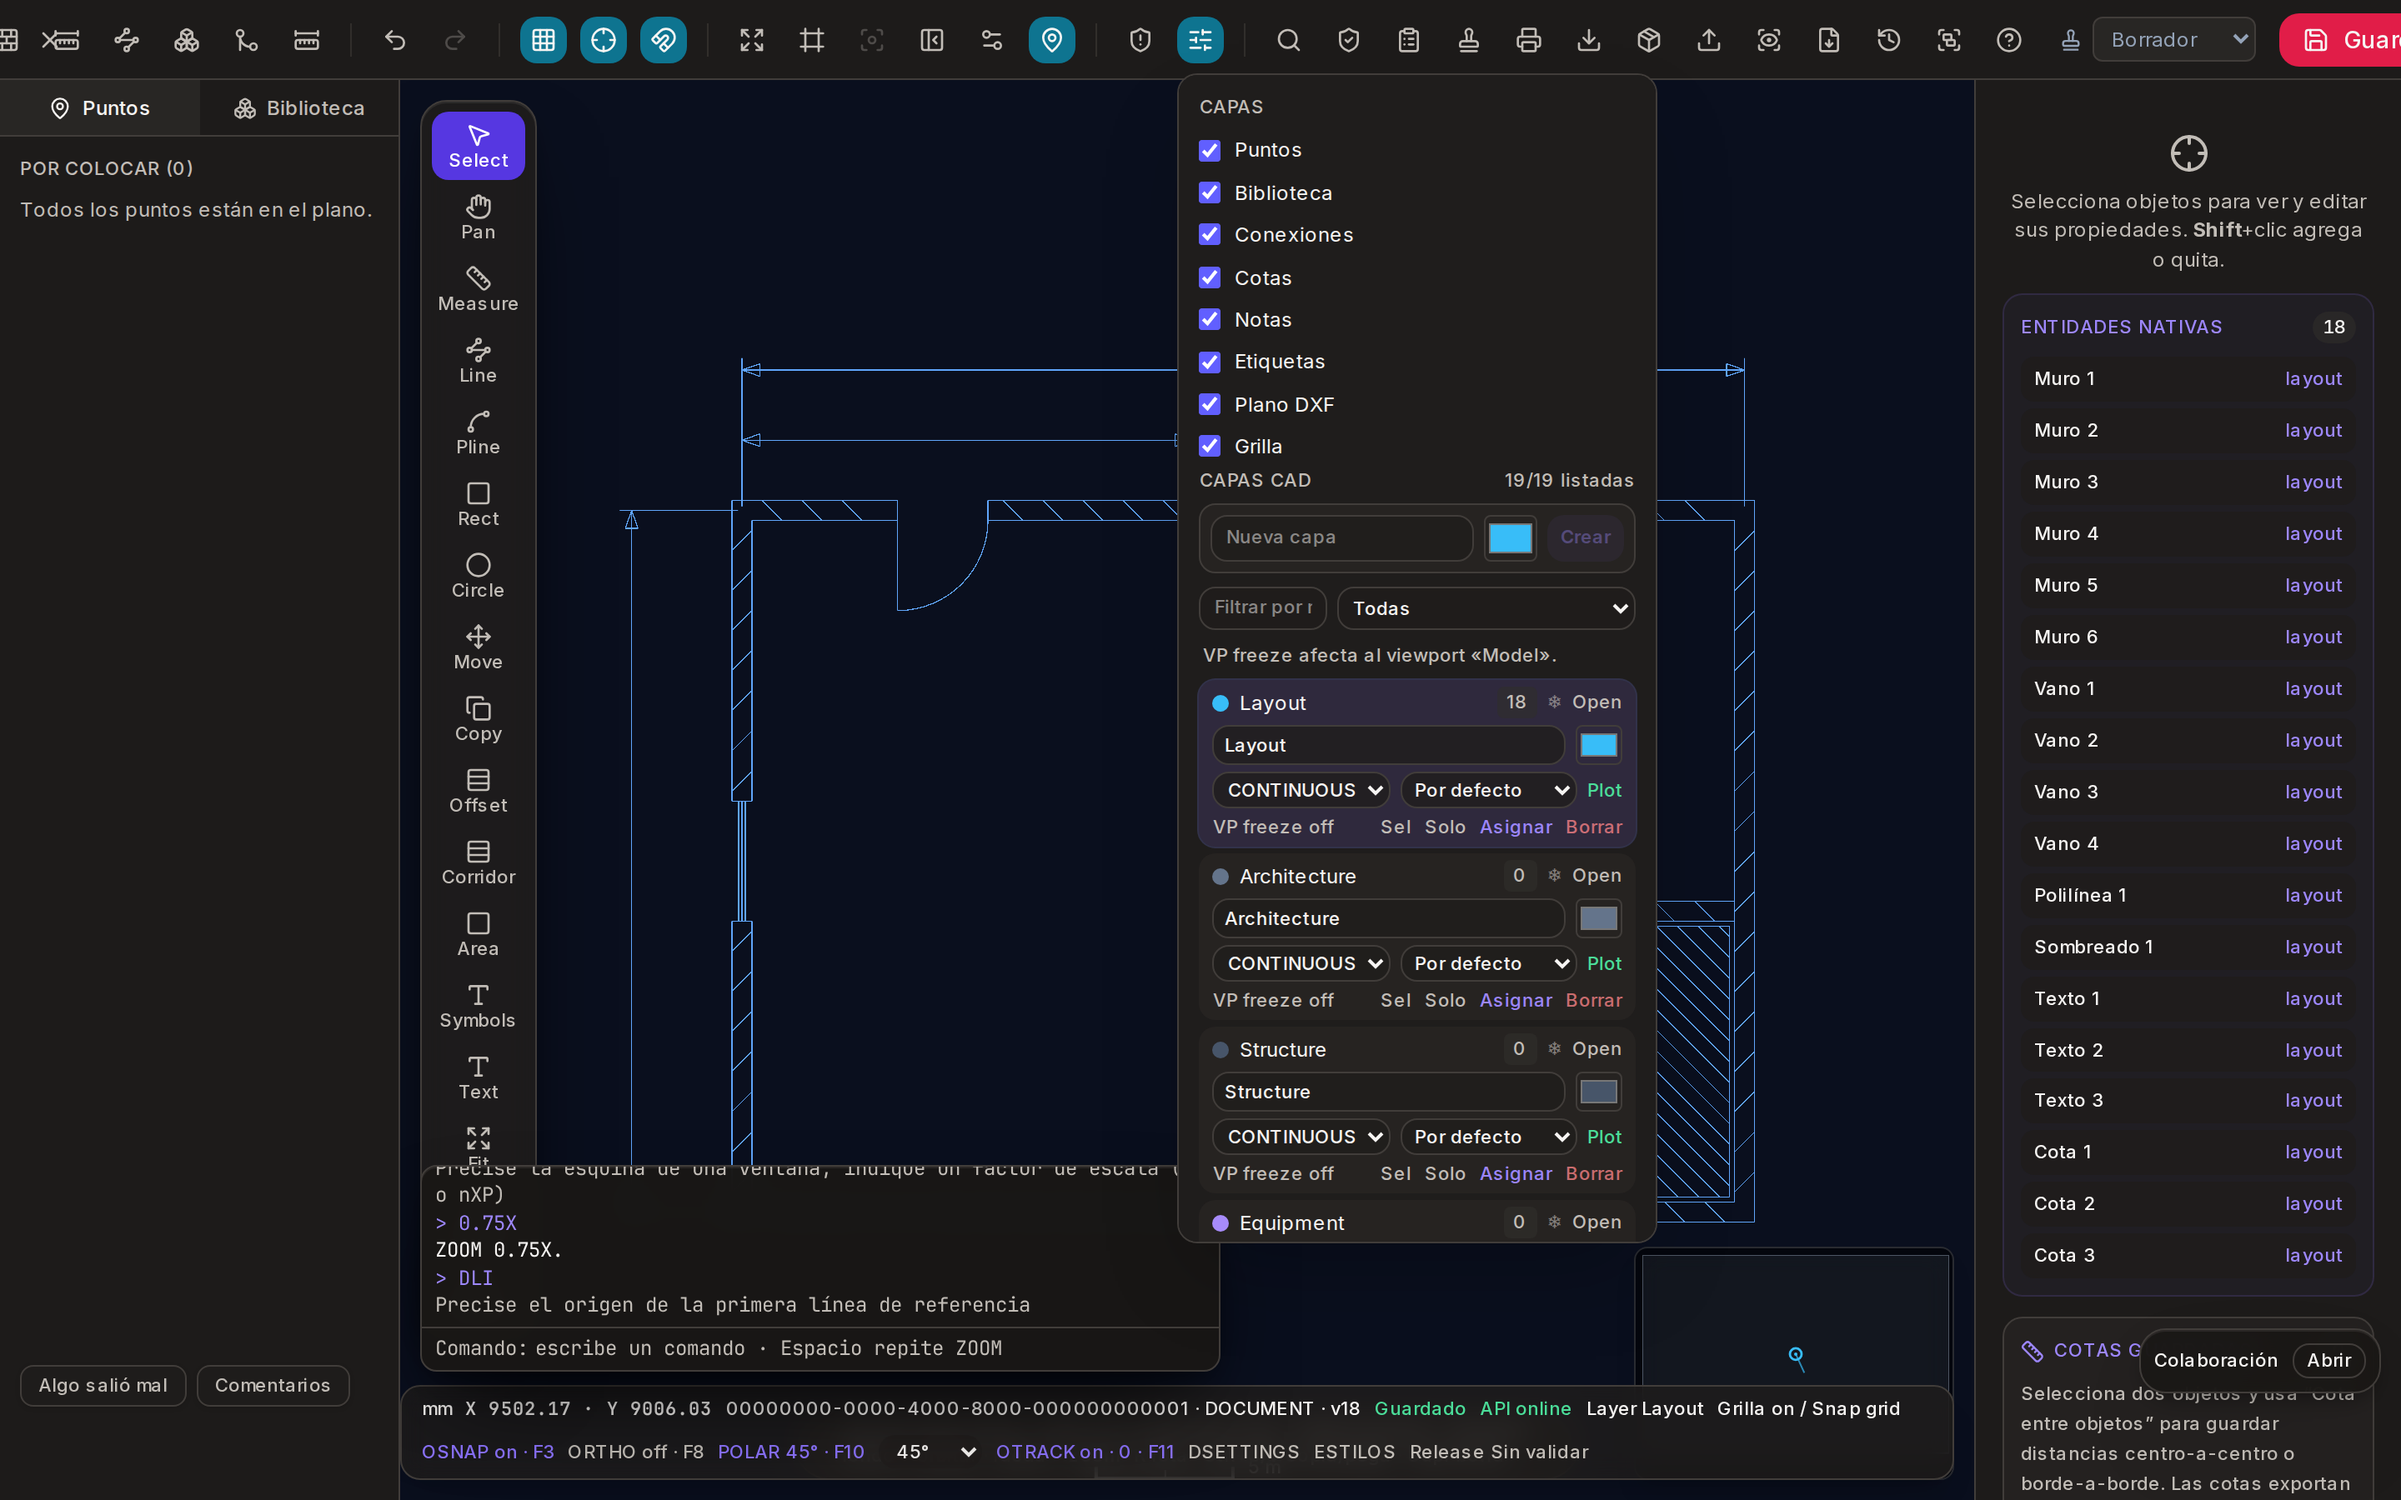
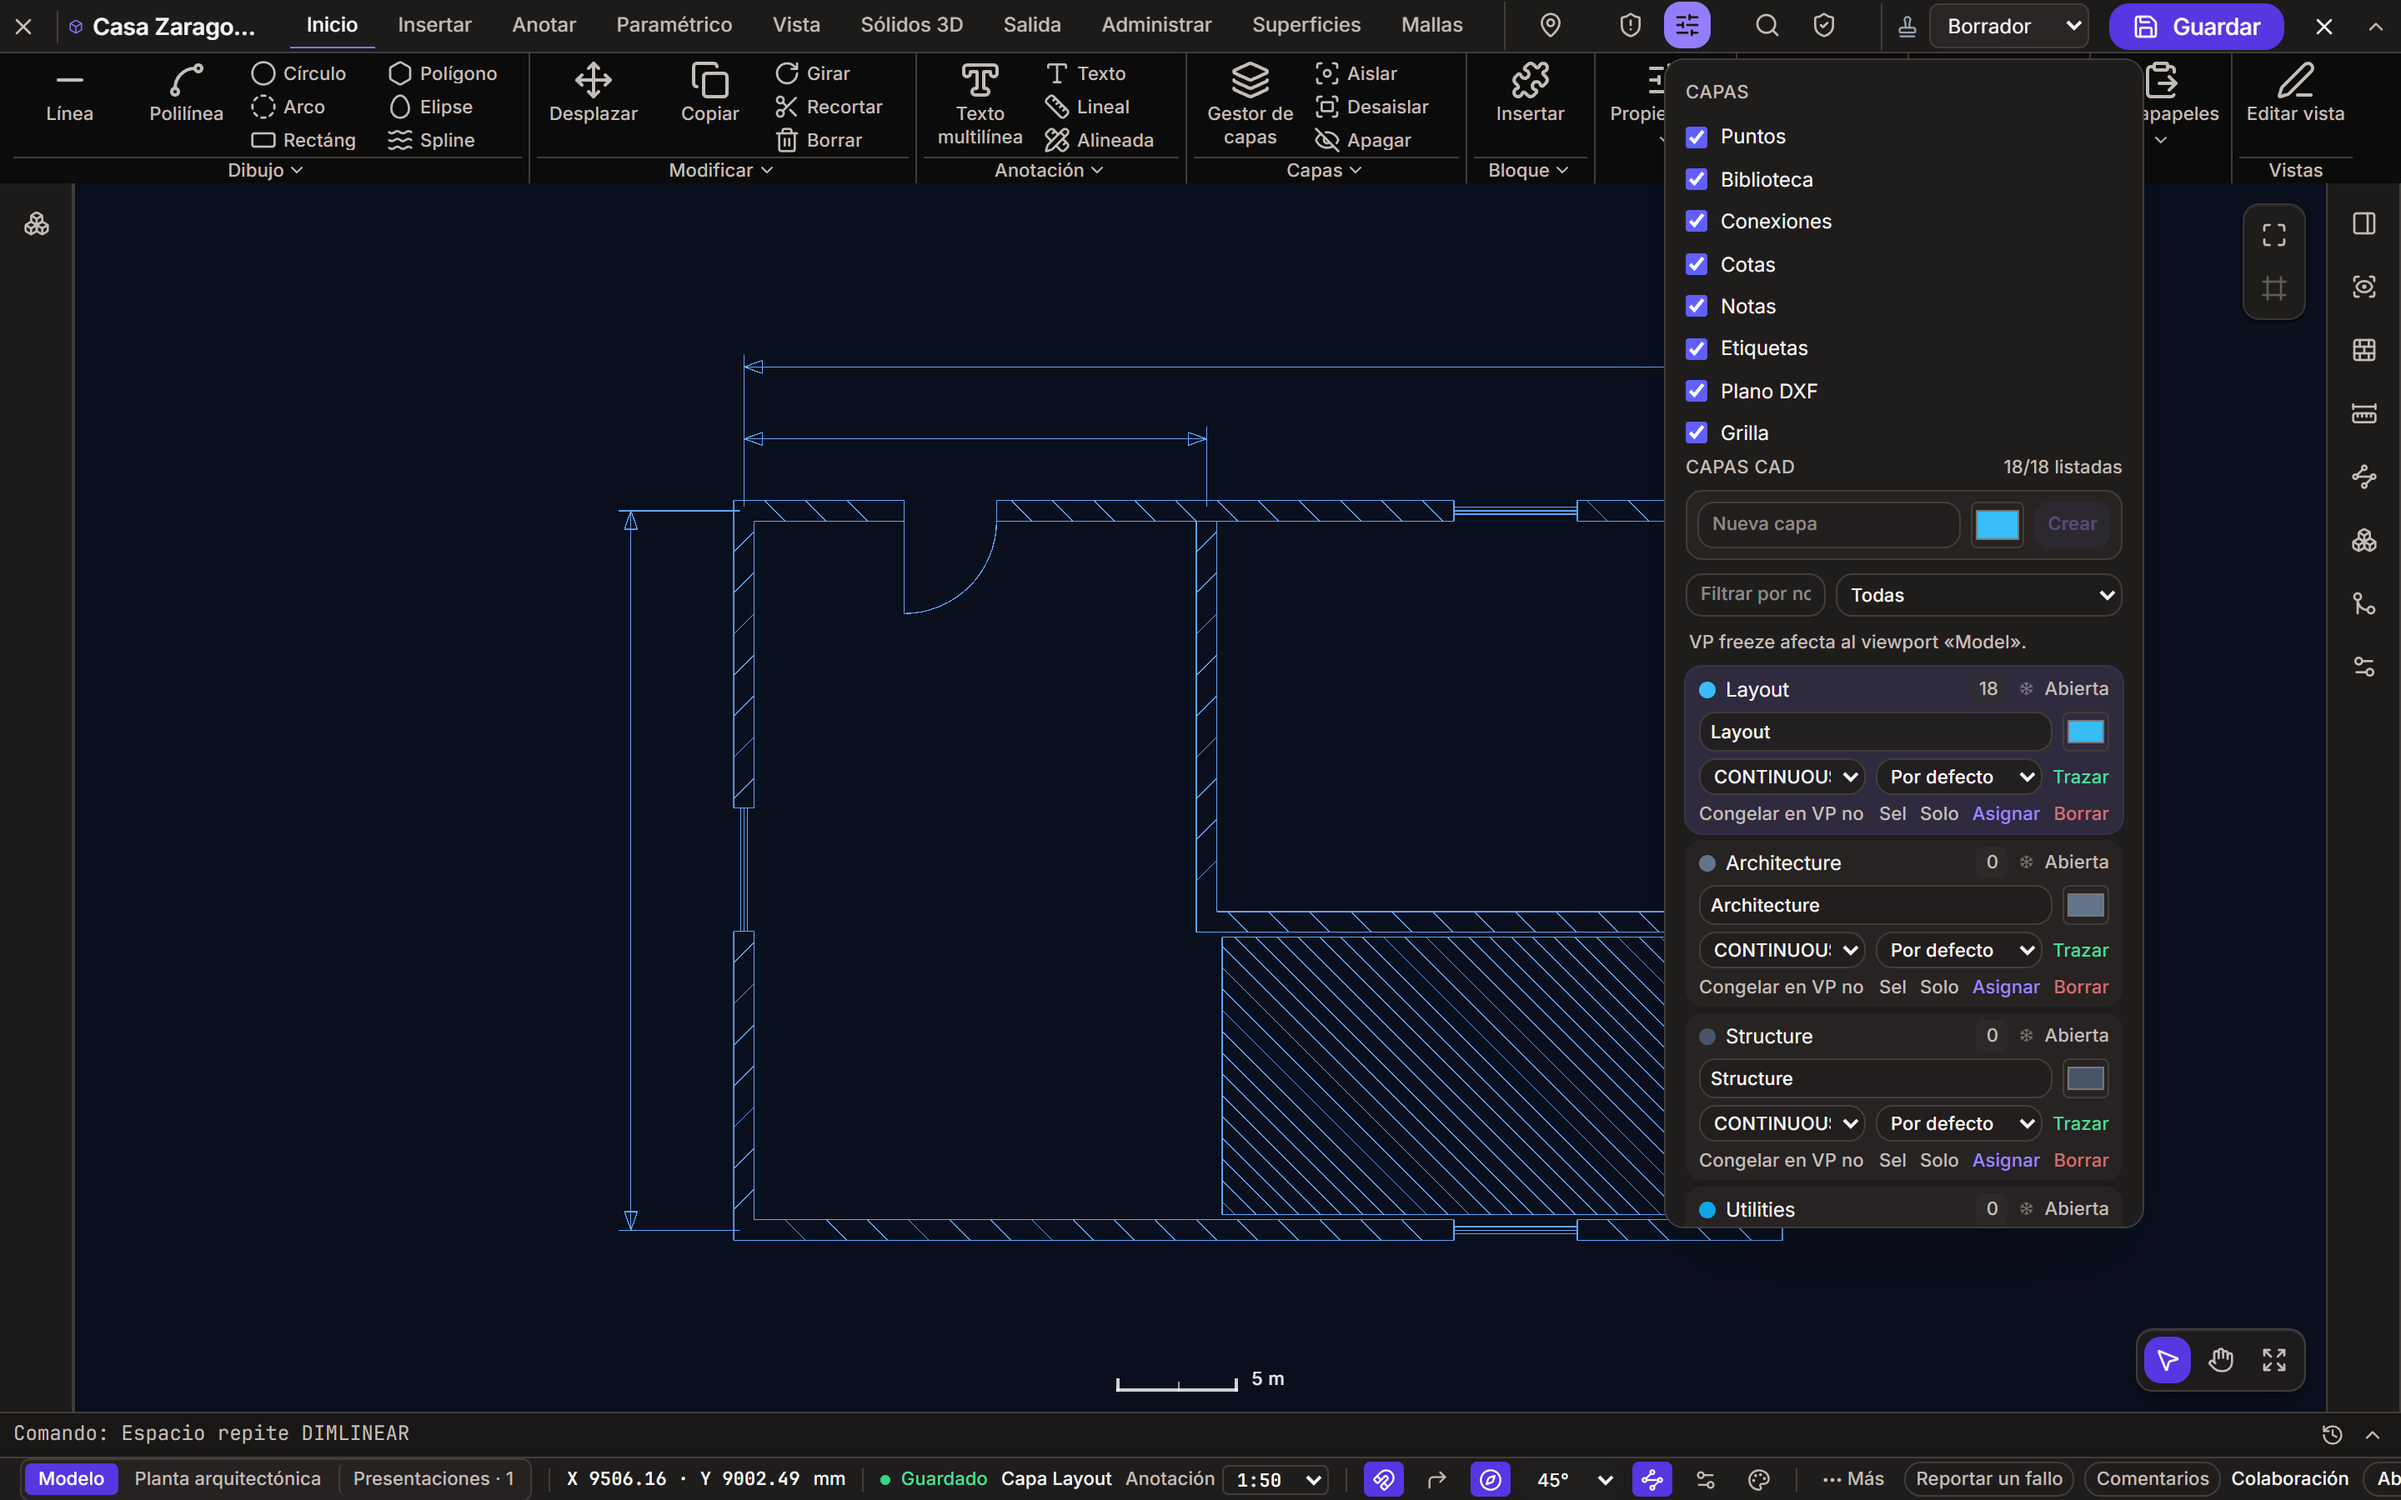
Renueva las capturas y el ejemplo mediante controles reales

diff --git a/apps/web/scripts/product-capture-example.ts b/apps/web/scripts/product-capture-example.ts
@@ -1,0 +1,44 @@
+import { expect, type Page } from "@playwright/test";
+import type { CadDocument } from "../src/lib/cad/cad-document";
+
+/** Adapt the example through the same layer controls available to its reader. */
+export async function removeUnusedExampleLayer(
+  page: Page,
+  snapshot: () => { document: Record<string, unknown> },
+) {
+  const read = () => snapshot().document as unknown as CadDocument;
+  const save = async () => {
+    await page.getByTestId("cad-save").click();
+    await expect(page.getByTestId("cad-save-status")).toHaveText("Guardado", {
+      timeout: 30_000,
+    });
+  };
+  await save();
+  const before = read();
+  expect(before.layers.find((layer) => layer.id === "equipment")).toBeDefined();
+  const references = [
+    ...before.entities,
+    ...before.blocks.flatMap((block) => block.entities),
+    ...before.unsupportedEntities,
+  ].filter((entity) => entity.layer === "equipment");
+  expect(
+    references,
+    "La capa del ejemplo debe estar vacía antes de borrarla",
+  ).toEqual([]);
+
+  const toggle = page.getByTitle(/Vista, capas y plano/);
+  await toggle.click();
+  await expect(page.getByTestId("cad-layer-manager")).toBeVisible();
+  await page.getByTestId("cad-layer-delete-equipment").click();
+  await expect(page.getByTestId("cad-layer-row-equipment")).toHaveCount(0);
+  await toggle.click();
+  await expect(page.getByTestId("cad-layer-manager")).toBeHidden();
+  await save();
+  await expect
+    .poll(() => read().layers.some((layer) => layer.id === "equipment"))
+    .toBe(false);
+  expect(read().entities).toEqual(before.entities);
+  expect(read().blocks).toEqual(before.blocks);
+  expect(read().unsupportedEntities).toEqual(before.unsupportedEntities);
+  await expect(page.getByTestId("app-toast")).toHaveCount(0, { timeout: 10_000 });
+}

diff --git a/apps/web/scripts/product-capture-diagnostics.ts b/apps/web/scripts/product-capture-diagnostics.ts
@@ -16,6 +16,34 @@ export function createProductCaptureDiagnostics(directory?: string) {
       page = next;
       page.setDefaultTimeout(30_000);
     },
+    async reportRenderer(next: Page) {
+      const metadata = await next
+        .getByTestId("cad-canvas")
+        .evaluate((element) => {
+          const canvas =
+            element instanceof HTMLCanvasElement
+              ? element
+              : element.querySelector("canvas");
+          const gl =
+            canvas?.getContext("webgl2") ?? canvas?.getContext("webgl");
+          if (!gl)
+            return {
+              renderer: "unavailable",
+              devicePixelRatio: window.devicePixelRatio,
+            };
+          const debug = gl.getExtension("WEBGL_debug_renderer_info");
+          return {
+            renderer: gl.getParameter(
+              debug ? debug.UNMASKED_RENDERER_WEBGL : gl.RENDERER,
+            ),
+            vendor: gl.getParameter(
+              debug ? debug.UNMASKED_VENDOR_WEBGL : gl.VENDOR,
+            ),
+            devicePixelRatio: window.devicePixelRatio,
+          };
+        });
+      console.log(`[captura GPU] ${JSON.stringify(metadata)}`);
+    },
     async failure(error: unknown) {
       console.error(`[captura] Fallo en etapa: ${stage}`);
       if (!directory || !page || page.isClosed()) return;
